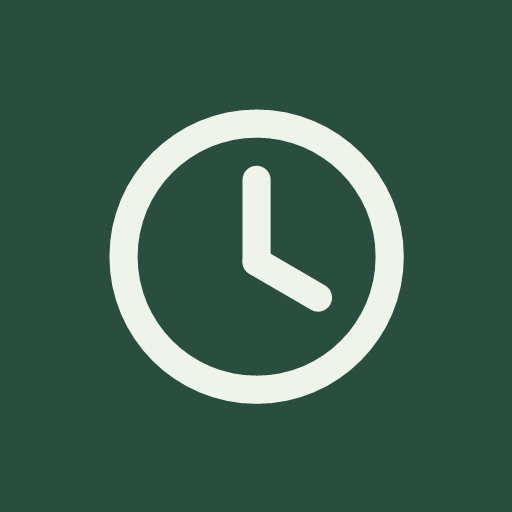
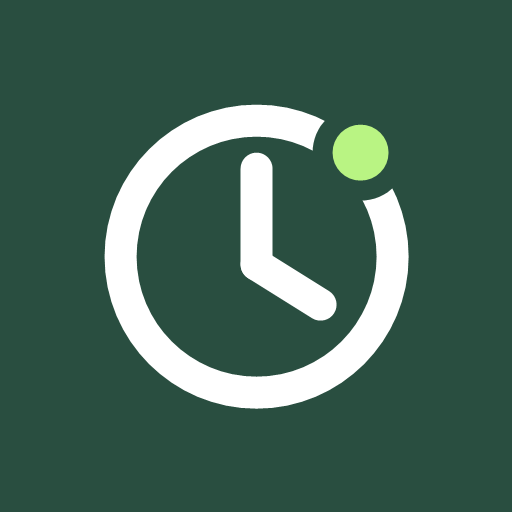
Update Site source

diff --git a/app/firebase-account.tsx b/app/firebase-account.tsx
@@ -33,7 +33,7 @@ export default function FirebaseAccount(){
  function change(next:typeof mode){setMode(next);setError('');setNotice('');setPassword('');}
  if(!ready)return <main className="auth-shell"><p role="status">Loading your account…</p></main>;
  if(user)return <Tracker key={user.uid}/>;
- return <main className="auth-shell"><section className="auth-panel"><div className="auth-brand">Since</div><h1>{mode==='signup'?'Create your account':mode==='reset'?'Reset your password':'Welcome back'}</h1><p className="auth-caption">Your timers and workspaces, synced across devices.</p>
+ return <main className="auth-shell"><section className="auth-panel"><div className="auth-brand"><img className="since-logo" src="/logo.svg" width="40" height="40" alt=""/>Since</div><h1>{mode==='signup'?'Create your account':mode==='reset'?'Reset your password':'Welcome back'}</h1><p className="auth-caption">Your timers and workspaces, synced across devices.</p>
  {mode!=='reset'&&<><button className="google-button" onClick={google} disabled={busy}>Continue with Google</button><div className="auth-divider">or use email</div></>}
  <form className="form-grid" onSubmit={submit}>{error&&<p className="form-error" role="alert">{error}</p>}{notice&&<p className="auth-notice" role="status">{notice}</p>}<label className="form-field">Email<input type="email" autoComplete="email" required value={email} onChange={e=>setEmail(e.target.value)} disabled={busy}/></label>{mode!=='reset'&&<label className="form-field">Password<input type="password" autoComplete={mode==='signup'?'new-password':'current-password'} minLength={mode==='signup'?6:undefined} required value={password} onChange={e=>setPassword(e.target.value)} disabled={busy}/></label>}<button type="submit" className="primary-button" disabled={busy}>{busy?'Please wait…':mode==='signup'?'Create account':mode==='reset'?'Send reset link':'Sign in'}</button></form>
  <div className="auth-links">{mode==='signin'?<><button onClick={()=>change('reset')} disabled={busy}>Forgot password?</button><button onClick={()=>change('signup')} disabled={busy}>Create an account</button></>:<button onClick={()=>change('signin')} disabled={busy}>Back to sign in</button>}</div><InstallApp/></section></main>;

diff --git a/app/globals.css b/app/globals.css
@@ -46,3 +46,5 @@ body{background:#fff;color:#171717;font-size:13px}.app-sidebar [data-slot=sideba
 .timer-card .card-top>.icon-button{display:inline-flex;align-items:center;justify-content:center;flex-shrink:0;width:26px;height:26px;padding:4px;border-radius:5px}.timer-card .card-top>.icon-button:hover{background:#ffffff26}
 .timer-card .card-controls{gap:7px;align-items:center;margin-top:9px}.timer-card .card-mode [data-slot=tabs-list]{height:30px;padding:2px;width:auto}.timer-card .card-mode [data-slot=tabs-trigger]{height:26px;min-height:26px;min-width:30px;padding:4px 7px}.card-action-icon{display:inline-flex;align-items:center;justify-content:center;width:30px;height:30px;border:1px solid #e6e6e6;background:#fff;color:#525252;border-radius:6px;box-shadow:0 1px 3px #00000008}.card-action-icon:hover{background:#f5f5f5;color:#171717}.card-action-icon:focus-visible{outline:2px solid #171717;outline-offset:2px}
 .boxed-duration{display:grid;gap:6px}.duration-tiles{display:flex;gap:6px;flex-wrap:wrap}.duration-tile,.counter-tile{display:grid;align-content:center;justify-items:center;gap:3px;min-width:32px;max-width:58px;flex:1 0 32px;padding:8px 4px;border:1px solid #ededed;border-radius:6px;background:#fff;box-shadow:0 2px 6px #0000000b}.duration-tile strong,.counter-tile strong{font-size:21px;font-weight:500;line-height:1.2;font-variant-numeric:tabular-nums;letter-spacing:-.5px}.duration-tile>span,.counter-tile>span{font-size:9px;line-height:1;color:#737373;letter-spacing:.5px}.counter-tile{width:max-content;min-width:58px;max-width:100%;padding:9px 12px}.timer-card .card-labels{margin-bottom:0}.boxed-duration>.duration-context{font-size:9px}@media(max-width:650px){.duration-tiles{gap:4px}.duration-tile{min-width:28px;flex-basis:28px;padding:7px 3px}.duration-tile strong{font-size:19px}.duration-tile>span{font-size:8px}.timer-card .card-controls{gap:6px}.timer-card .card-mode [data-slot=tabs-trigger]{min-width:28px;padding:4px 6px}}
+
+.since-logo{display:block;flex-shrink:0}.brand{gap:9px}.auth-brand{display:flex;align-items:center;gap:11px}

diff --git a/public/sw.js b/public/sw.js
@@ -1,5 +1,5 @@
 const CACHE='since-pwa-__BUILD__';
-const FIXED=['/offline.html','/manifest.webmanifest','/icon-192.png','/icon-512.png','/favicon.svg'];
+const FIXED=['/offline.html','/manifest.webmanifest','/icon-192.png','/icon-512.png','/favicon.svg','/logo.svg','/favicon.png','/apple-touch-icon.png'];
 async function cacheShell(cache){try{const response=await fetch('/',{credentials:'same-origin',cache:'no-store'});if(response.ok&&!response.redirected&&(response.headers.get('content-type')||'').includes('text/html')){const text=await response.clone().text();if(text.includes('name="since-app-shell"'))await cache.put('/',response);}}catch{}}
 self.addEventListener('install',event=>event.waitUntil((async()=>{const cache=await caches.open(CACHE);await cache.addAll(FIXED);let assets=[];try{const r=await fetch('/pwa-assets.json',{cache:'no-store'});if(r.ok)assets=await r.json();}catch{}await cache.addAll(assets.filter(p=>typeof p==='string'&&p.startsWith('/_next/')));await cacheShell(cache);})()));
 self.addEventListener('activate',event=>event.waitUntil((async()=>{for(const name of await caches.keys())if(name.startsWith('since-pwa-')&&name!==CACHE)await caches.delete(name);await self.clients.claim();})()));

diff --git a/app/tracker.tsx b/app/tracker.tsx
@@ -37,7 +37,7 @@ export default function Tracker(){
  async function refresh(){setRefreshing(true);try{await reload()}catch{}finally{setRefreshing(false)}}
  return <SidebarProvider><Toaster richColors position="bottom-right"/>
  <Sidebar className="app-sidebar" collapsible="offcanvas"><SidebarHeader>
-  <div className="brand-row"><div className="brand">Since</div><SidebarTrigger aria-label="Collapse sidebar"/></div>
+  <div className="brand-row"><div className="brand"><img className="since-logo" src="/logo.svg" width="30" height="30" alt=""/>Since</div><SidebarTrigger aria-label="Collapse sidebar"/></div>
   <div className="workspace-picker"><Select value={workspace} onValueChange={switchWorkspace}><SelectTrigger aria-label="Switch workspace" className="w-full border-0 shadow-none px-0"><SelectValue placeholder="Workspace"/></SelectTrigger><SelectContent>{data?.workspaces.map(w=><SelectItem key={w.id} value={w.id}>{w.name}</SelectItem>)}</SelectContent></Select></div>
   <button className="workspace-add" onClick={()=>open({type:'workspace'})} disabled={!data}><Plus size={14}/>New workspace</button>
  </SidebarHeader><SidebarContent>

diff --git a/app/layout.tsx b/app/layout.tsx
@@ -11,9 +11,9 @@ export const metadata: Metadata = {
   other: {"since-app-shell":"1"},
   appleWebApp: { capable: true, title: "Since", statusBarStyle: "default" },
   icons: {
-    icon: "/favicon.svg",
-    shortcut: "/favicon.svg",
-    apple: "/icon-192.png",
+    icon: [{ url: "/favicon.svg?v=2", type: "image/svg+xml" }, { url: "/favicon.png?v=2", sizes: "32x32", type: "image/png" }],
+    shortcut: "/favicon.png?v=2",
+    apple: "/apple-touch-icon.png",
   },
 };
 
